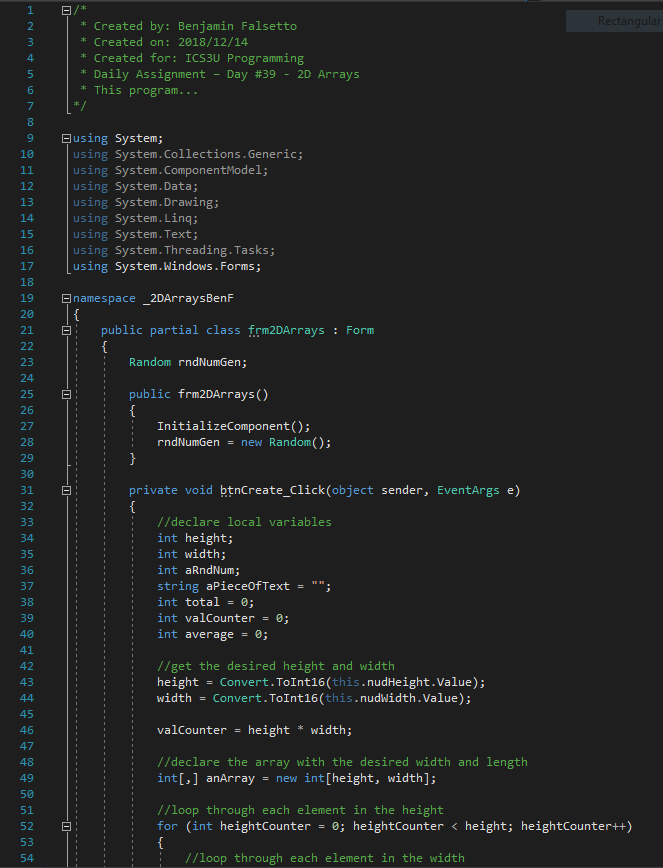
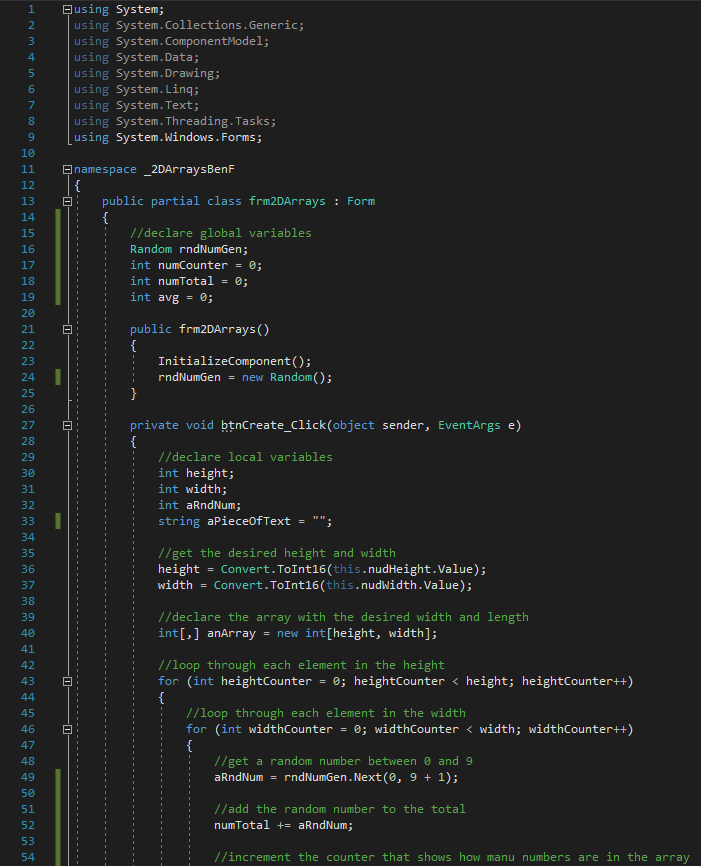
Better version

diff --git a/2DArraysBenF/2DArraysBenF/2DArraysForm.cs b/2DArraysBenF/2DArraysBenF/2DArraysForm.cs
@@ -1,12 +1,4 @@
-/*
- * Created by: Benjamin Falsetto
- * Created on: 2018/12/14
- * Created for: ICS3U Programming
- * Daily Assignment – Day #39 - 2D Arrays
- * This program...
-*/
-
-using System;
+using System;
 using System.Collections.Generic;
 using System.ComponentModel;
 using System.Data;
@@ -20,7 +12,11 @@ namespace _2DArraysBenF
 {
     public partial class frm2DArrays : Form
     {
+        //declare global variables
         Random rndNumGen;
+        int numCounter = 0;
+        int numTotal = 0;
+        int avg = 0;
 
         public frm2DArrays()
         {
@@ -35,15 +31,10 @@ namespace _2DArraysBenF
             int width;
             int aRndNum;
             string aPieceOfText = "";
-            int total = 0;
-            int valCounter = 0;
-            int average = 0;
 
             //get the desired height and width
             height = Convert.ToInt16(this.nudHeight.Value);
             width = Convert.ToInt16(this.nudWidth.Value);
-
-            valCounter = height * width;
 
             //declare the array with the desired width and length
             int[,] anArray = new int[height, width];
@@ -57,6 +48,12 @@ namespace _2DArraysBenF
                     //get a random number between 0 and 9
                     aRndNum = rndNumGen.Next(0, 9 + 1);
 
+                    //add the random number to the total
+                    numTotal += aRndNum;
+
+                    //increment the counter that shows how manu numbers are in the array
+                    numCounter++;
+
                     //insert the random number into the array at the current height and width
                     anArray[heightCounter, widthCounter] = aRndNum;
 
@@ -65,24 +62,19 @@ namespace _2DArraysBenF
                 }
                 //add a line break to the end of the line to show a new row in the string
                 aPieceOfText = aPieceOfText + "\r" + "\n";
+                Console.WriteLine("***aPieceOfText = \n" + aPieceOfText);
             }
             //insert the string into the listbox
-            this.txtArray.Text = aPieceOfText;
+            this.txtArray.Text = (aPieceOfText);
+        }
 
-            //calculate the total
-            for (int heightCounter = 0; heightCounter < height; heightCounter++)
-            {
-                for (int widthCounter = 0; widthCounter < width; widthCounter++)
-                {
-                    total += anArray[heightCounter, widthCounter];
-
-                    valCounter++;
-                }
-            }
-
+        private void btnCalculateAvg_Click(object sender, EventArgs e)
+        {
             //calculate the average
-            average = total / valCounter;
-            MessageBox.Show("The average is " + average);
+            avg = numTotal / numCounter;
+
+            //display the average in a messagebox
+            MessageBox.Show("The average is " + avg, "Average");
         }
     }
 }

diff --git a/2DArraysBenF/2DArraysBenF/2DArraysForm.Designer.cs b/2DArraysBenF/2DArraysBenF/2DArraysForm.Designer.cs
@@ -34,6 +34,7 @@
             this.lblWidth = new System.Windows.Forms.Label();
             this.btnCreate = new System.Windows.Forms.Button();
             this.txtArray = new System.Windows.Forms.TextBox();
+            this.btnCalculateAvg = new System.Windows.Forms.Button();
             ((System.ComponentModel.ISupportInitialize)(this.nudHeight)).BeginInit();
             ((System.ComponentModel.ISupportInitialize)(this.nudWidth)).BeginInit();
             this.SuspendLayout();
@@ -82,17 +83,29 @@
             // 
             // txtArray
             // 
-            this.txtArray.Location = new System.Drawing.Point(12, 121);
+            this.txtArray.Enabled = false;
+            this.txtArray.Location = new System.Drawing.Point(32, 141);
             this.txtArray.Multiline = true;
             this.txtArray.Name = "txtArray";
-            this.txtArray.Size = new System.Drawing.Size(160, 109);
+            this.txtArray.Size = new System.Drawing.Size(120, 89);
             this.txtArray.TabIndex = 6;
+            // 
+            // btnCalculateAvg
+            // 
+            this.btnCalculateAvg.Location = new System.Drawing.Point(38, 265);
+            this.btnCalculateAvg.Name = "btnCalculateAvg";
+            this.btnCalculateAvg.Size = new System.Drawing.Size(109, 23);
+            this.btnCalculateAvg.TabIndex = 8;
+            this.btnCalculateAvg.Text = "Calculate Average";
+            this.btnCalculateAvg.UseVisualStyleBackColor = true;
+            this.btnCalculateAvg.Click += new System.EventHandler(this.btnCalculateAvg_Click);
             // 
             // frm2DArrays
             // 
             this.AutoScaleDimensions = new System.Drawing.SizeF(6F, 13F);
             this.AutoScaleMode = System.Windows.Forms.AutoScaleMode.Font;
-            this.ClientSize = new System.Drawing.Size(184, 280);
+            this.ClientSize = new System.Drawing.Size(184, 295);
+            this.Controls.Add(this.btnCalculateAvg);
             this.Controls.Add(this.txtArray);
             this.Controls.Add(this.btnCreate);
             this.Controls.Add(this.lblWidth);
@@ -100,6 +113,7 @@
             this.Controls.Add(this.nudWidth);
             this.Controls.Add(this.nudHeight);
             this.Name = "frm2DArrays";
+            this.StartPosition = System.Windows.Forms.FormStartPosition.CenterScreen;
             this.Text = "2D Arrays Benjamin Falsetto";
             ((System.ComponentModel.ISupportInitialize)(this.nudHeight)).EndInit();
             ((System.ComponentModel.ISupportInitialize)(this.nudWidth)).EndInit();
@@ -116,6 +130,7 @@
         private System.Windows.Forms.Label lblWidth;
         private System.Windows.Forms.Button btnCreate;
         private System.Windows.Forms.TextBox txtArray;
+        private System.Windows.Forms.Button btnCalculateAvg;
     }
 }
 
